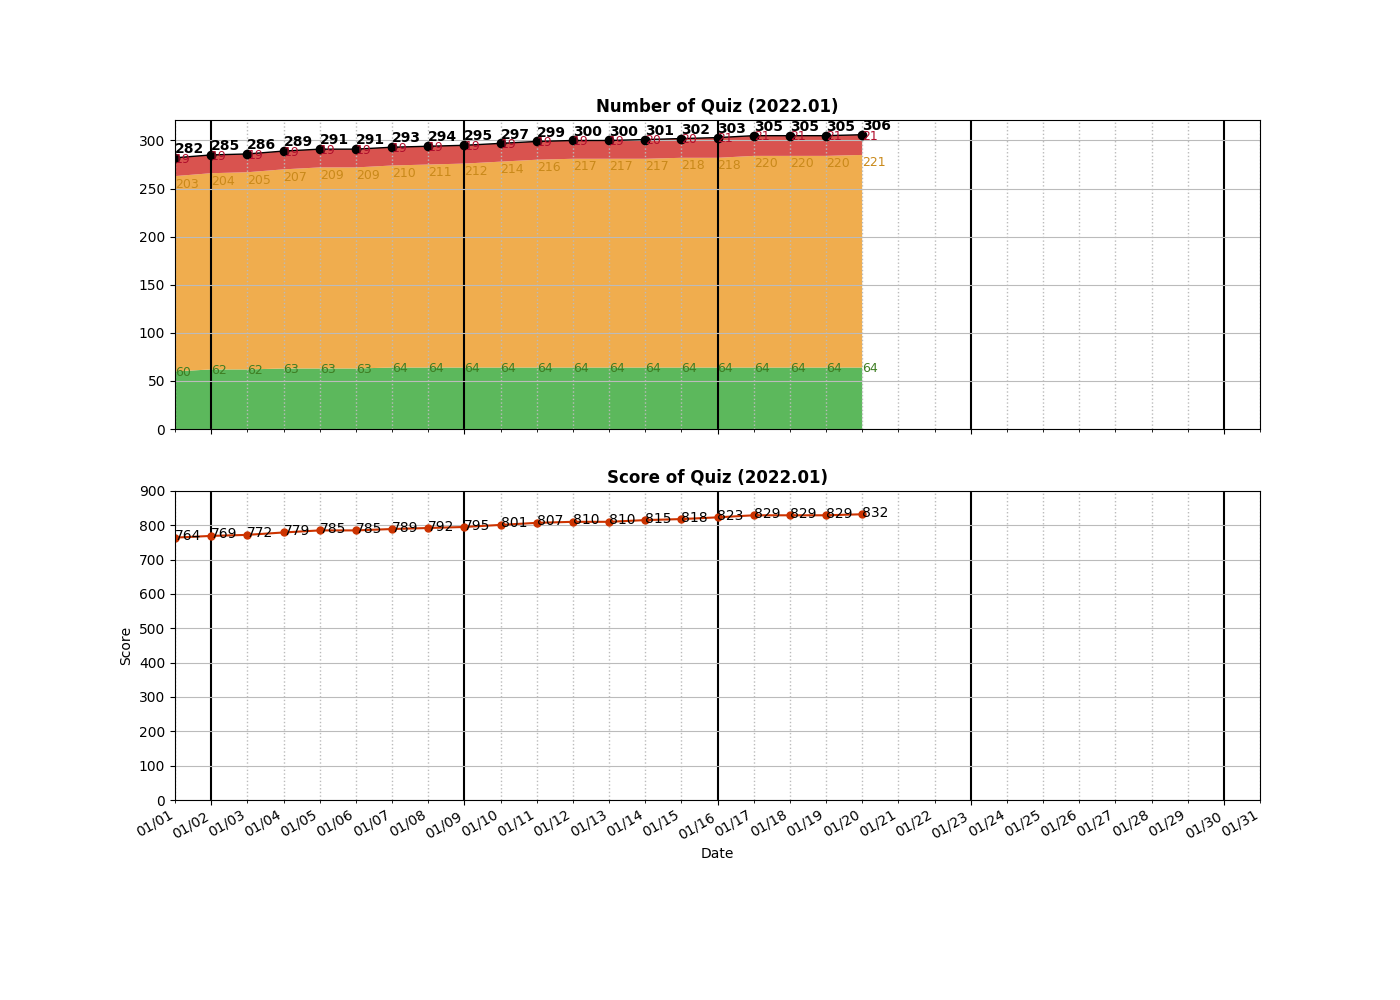
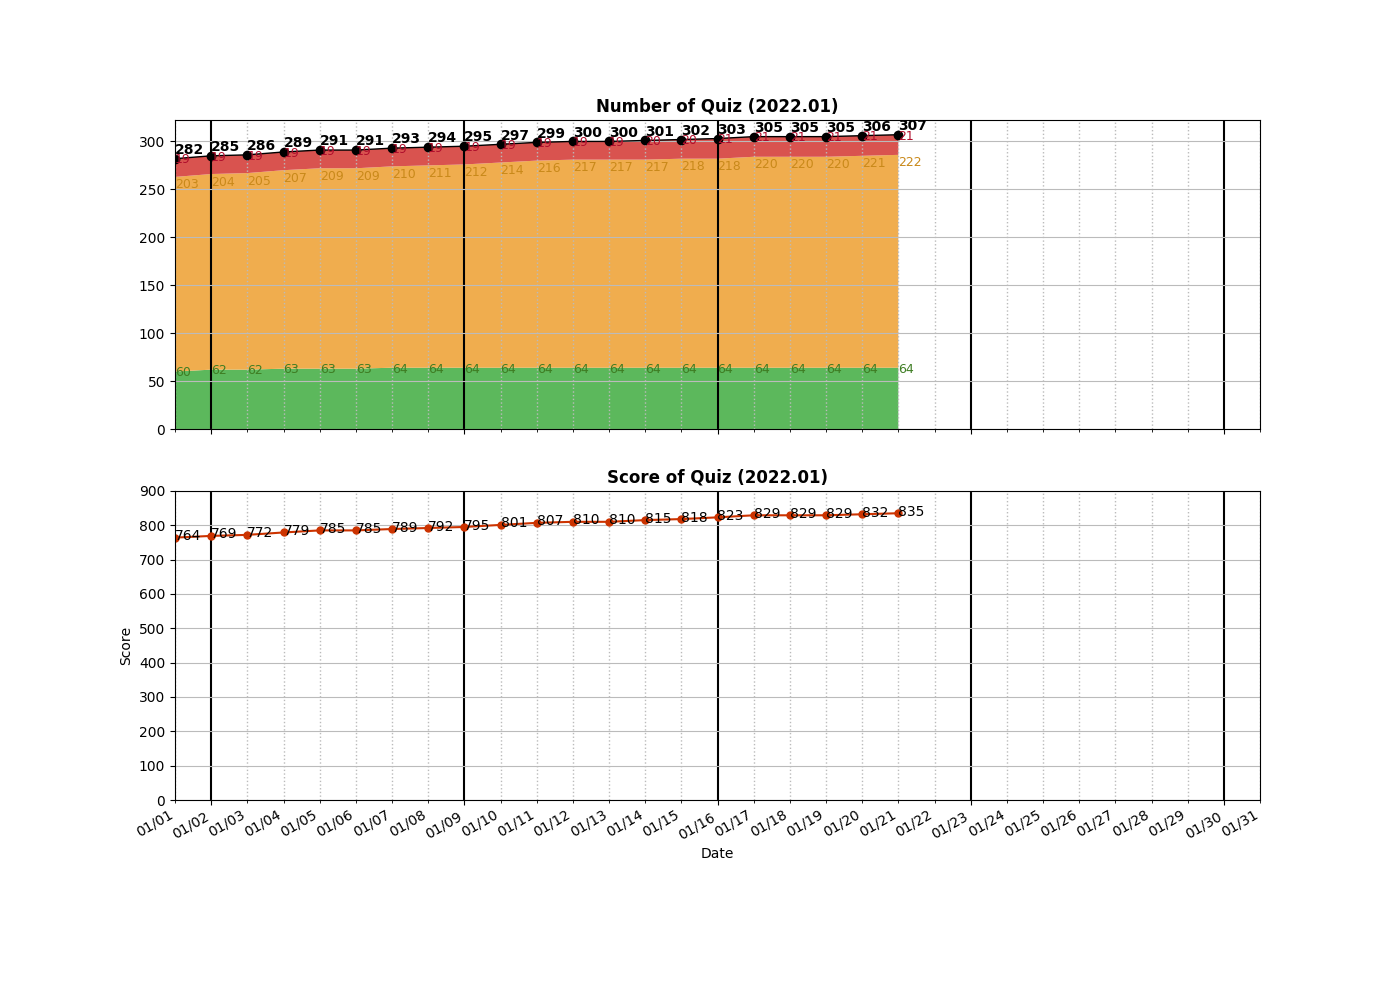
Added __0438__Find All Anagrams in a String.py

Changed region(s): [[0.0921, 0.124, 0.6757, 0.434], [0.6143, 0.496, 0.645, 0.527]]

diff --git a/algo/Two-Pointer/__0438__Find All Anagrams in a String.py b/algo/Two-Pointer/__0438__Find All Anagrams in a String.py
@@ -1,0 +1,38 @@
+class Solution:
+    
+    # 2022/01/21
+    # Sliding window with count array [O(n): 12%]
+    def findAnagrams(self, s: str, p: str) -> List[int]:
+        
+        def compareCountMap(base, compare):
+            cloneBase = base + []
+            res = 0
+            for i, v in enumerate(compare):
+                cloneBase[i] -= v
+                if cloneBase[i] < 0: #s too many
+                    res = -1
+                    break
+                elif cloneBase[i] > 0:
+                    res = 1
+                    break
+            return res
+        
+        pMap = [0] * 26
+        sMap = [0] * 26
+        
+        for c in p:
+            pMap[ord(c) - ord("a")] += 1
+            
+        res = []
+        left = 0
+        for right, c in enumerate(s):
+            sMap[ord(c) - ord("a")] += 1            
+            status = compareCountMap(pMap, sMap) 
+            while status == -1: #pMap more than sMap => reduce sMap               
+                sMap[ord(s[left]) - ord("a")] -= 1
+                left += 1 
+                status = compareCountMap(pMap, sMap) 
+            if status == 0:
+                res.append(left)
+            #pMap less or equal to sMap => expand sMap
+        return res        

diff --git a/README.md b/README.md
@@ -316,6 +316,7 @@ algo
 │   ├── __0277__Find the Celebrity.py
 │   ├── __0340__Longest Substring with At Most K Distinct Characters.py
 │   ├── __0395__Longest Substring with At Least K Repeating Characters.py
+│   ├── __0438__Find All Anagrams in a String.py
 │   ├── __0532__K-diff Pairs in an Array.py
 │   ├── __0611__Valid Triangle Number.py
 │   ├── __0680__Valid Palindrome II.py
@@ -345,7 +346,7 @@ algo
     ├── Countries.py
     └── SwitchingArray.py
 
-26 directories, 318 files
+26 directories, 319 files
 
 =====================================
 ============= Local Repo ============
@@ -527,6 +528,7 @@ __0416__Partition Equal Subset Sum.py
 __0417__Pacific Atlantic Water Flow.py
 __0423__Reconstruct Original Digits from English.py
 __0437__Path Sum III.py
+__0438__Find All Anagrams in a String.py
 __0441__Arranging Coins.py
 __0449__Serialize and Deserialize BST.py
 __0450__Delete Node in a BST.py
@@ -657,7 +659,7 @@ __1905__Count Sub Islands.py
 __1937__Maximum Number of Points with Cost.py
 __2093__Minimum Cost to Reach City With Discounts.py
 =====================================
-Num of Python Practice:  306
+Num of Python Practice:  307
 
 
 =====================================
@@ -840,6 +842,7 @@ Num of Python Practice:  306
  0417 Pacific Atlantic Water Flow
  0423 Reconstruct Original Digits from English
  0437 Path Sum III
+ 0438 Find All Anagrams in a String
  0441 Arranging Coins
  0449 Serialize and Deserialize BST
  0450 Delete Node in a BST
@@ -971,10 +974,10 @@ Num of Python Practice:  306
  2093 Minimum Cost to Reach City With Discounts
 =====================================
 Solved / Total (Easy)  :   64 /  541
-Solved / Total (Medium):  221 / 1144
+Solved / Total (Medium):  222 / 1144
 Solved / Total (Hard)  :   21 /  458
-Solved / Total (All)   :  306 / 2143
-Total Score            :  832
+Solved / Total (All)   :  307 / 2143
+Total Score            :  835
 =====================================
 
 ```
